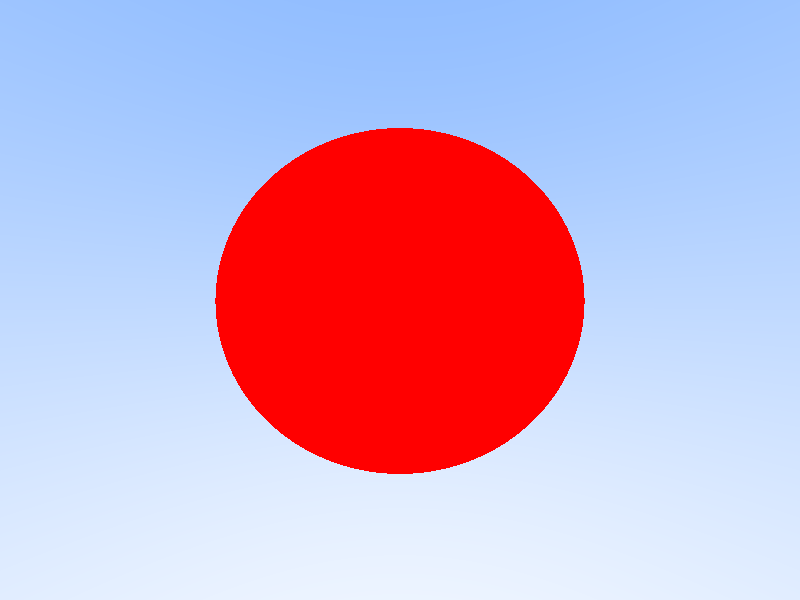
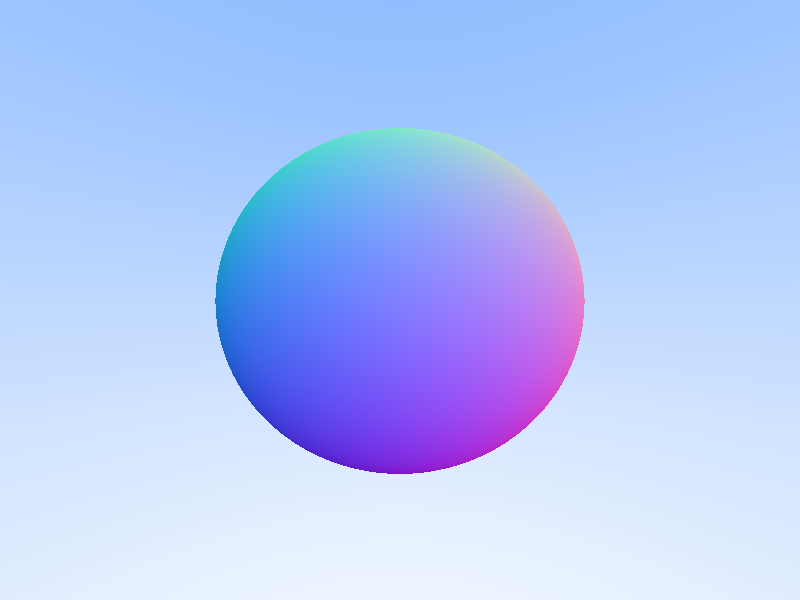
render surface normals

Changed region(s): [[0.25, 0.21, 0.75, 0.81]]

diff --git a/src/main.rs b/src/main.rs
@@ -26,13 +26,17 @@ bool hit_sphere(const point3& center, double radius, const ray& r) {
 }
  **/
 
-fn hit_sphere(center: Point3D, radius: f64, r: &Ray) -> bool {
+fn hit_sphere(center: Point3D, radius: f64, r: &Ray) -> f64 {
     let oc = r.origin - center;
     let a = r.direction.dot(&r.direction);
     let b = 2.0 * oc.dot(&r.direction);
     let c = oc.dot(&oc) - radius * radius;
     let discriminant = b * b - 4.0 * a * c;
-    return discriminant > 0.0;
+    return if discriminant < 0.0 {
+        -1.0
+    } else {
+        (-b - discriminant.sqrt()) / (2.0 * a)
+    };
 }
 
 
@@ -45,8 +49,10 @@ fn test_ray_color() {
 }
 
 fn ray_color(ray: &Ray) -> Srgb {
-    if hit_sphere(Point3D::new(0.0, 0.0, -1.0), 0.5, ray) {
-        return Srgb::new(1.0, 0.0, 0.0);
+    let hit = hit_sphere(Point3D::new(0.0, 0.0, -1.0), 0.5, ray);
+    if hit > 0.0 {
+        let n = (ray.at(hit) - Point3D::new(0.0, 0.0, -1.0)).unit_vector();
+        return Srgb::new(0.5 * n.x() as f32 + 0.5, 0.5 * n.y() as f32 + 0.5, 0.5 * n.z() as f32 + 0.5);
     }
     let t: f32 = 0.5 * (ray.direction.unit_vector().y() as f32 + 1.0);
     return Srgb::new((1.0 - t) * 1.0 + t * 0.5, (1.0 - t) * 1.0 + t * 0.7, (1.0 - t) * 1.0 + t * 1.0);
